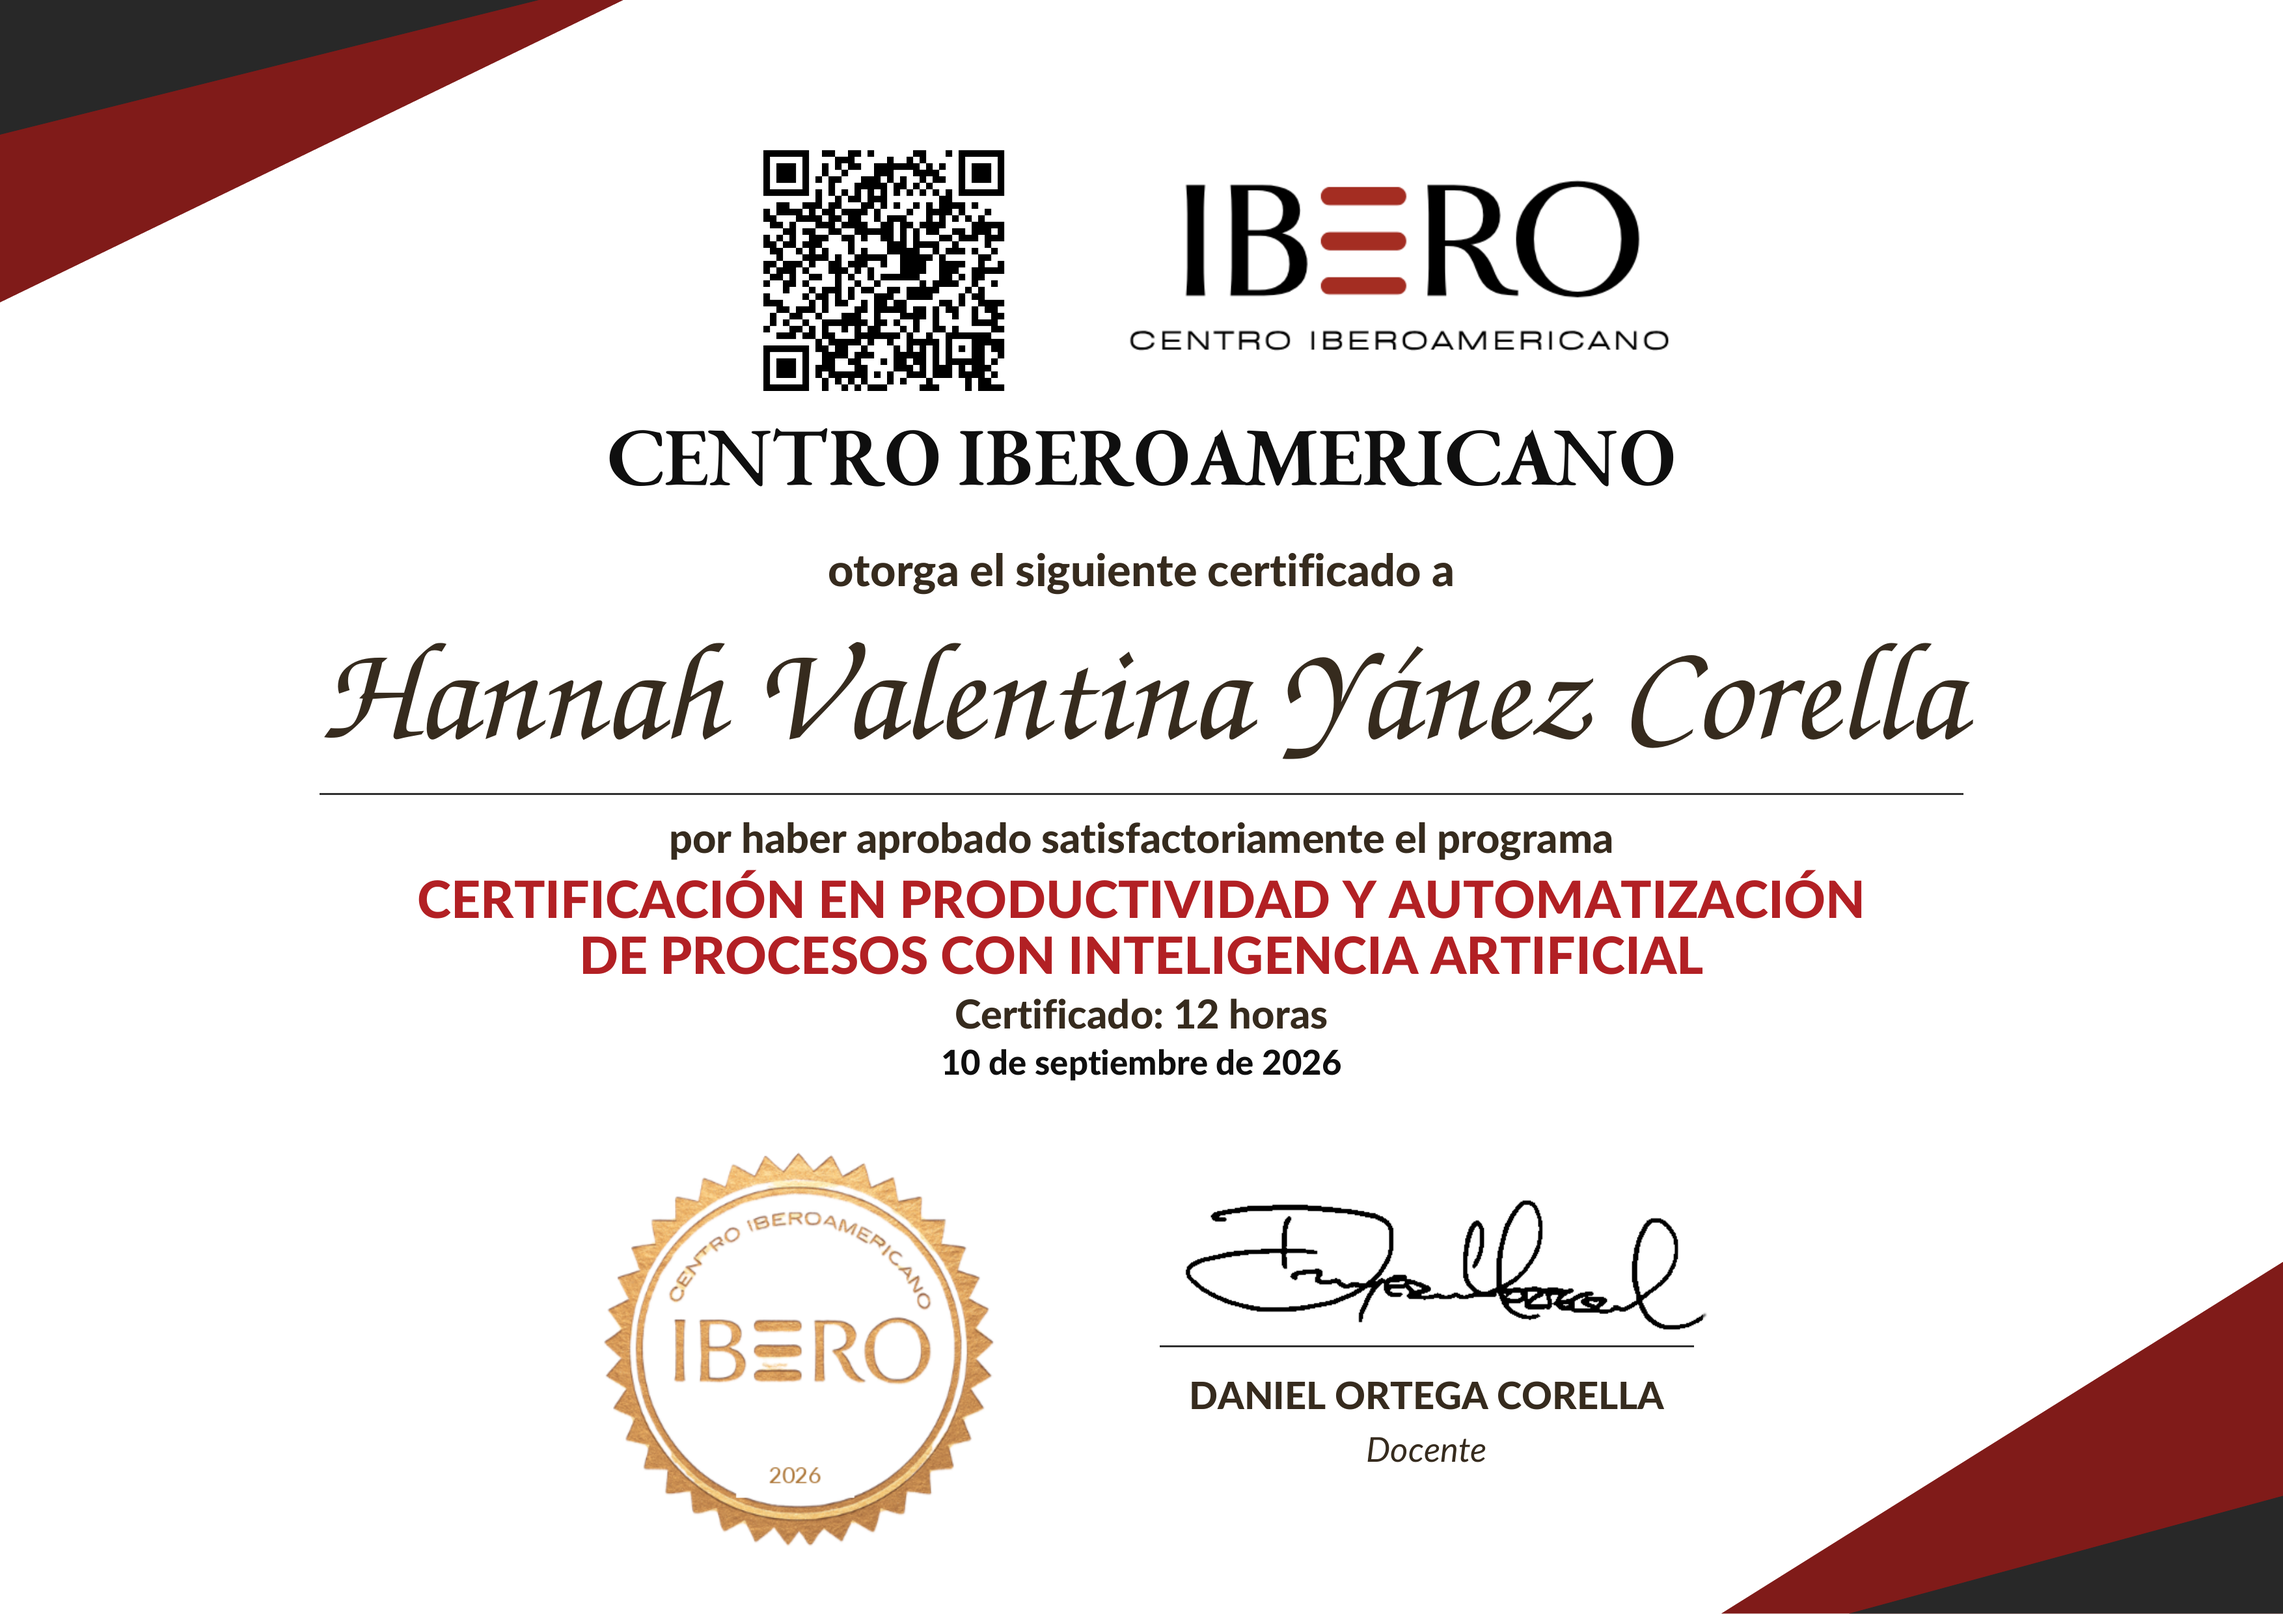
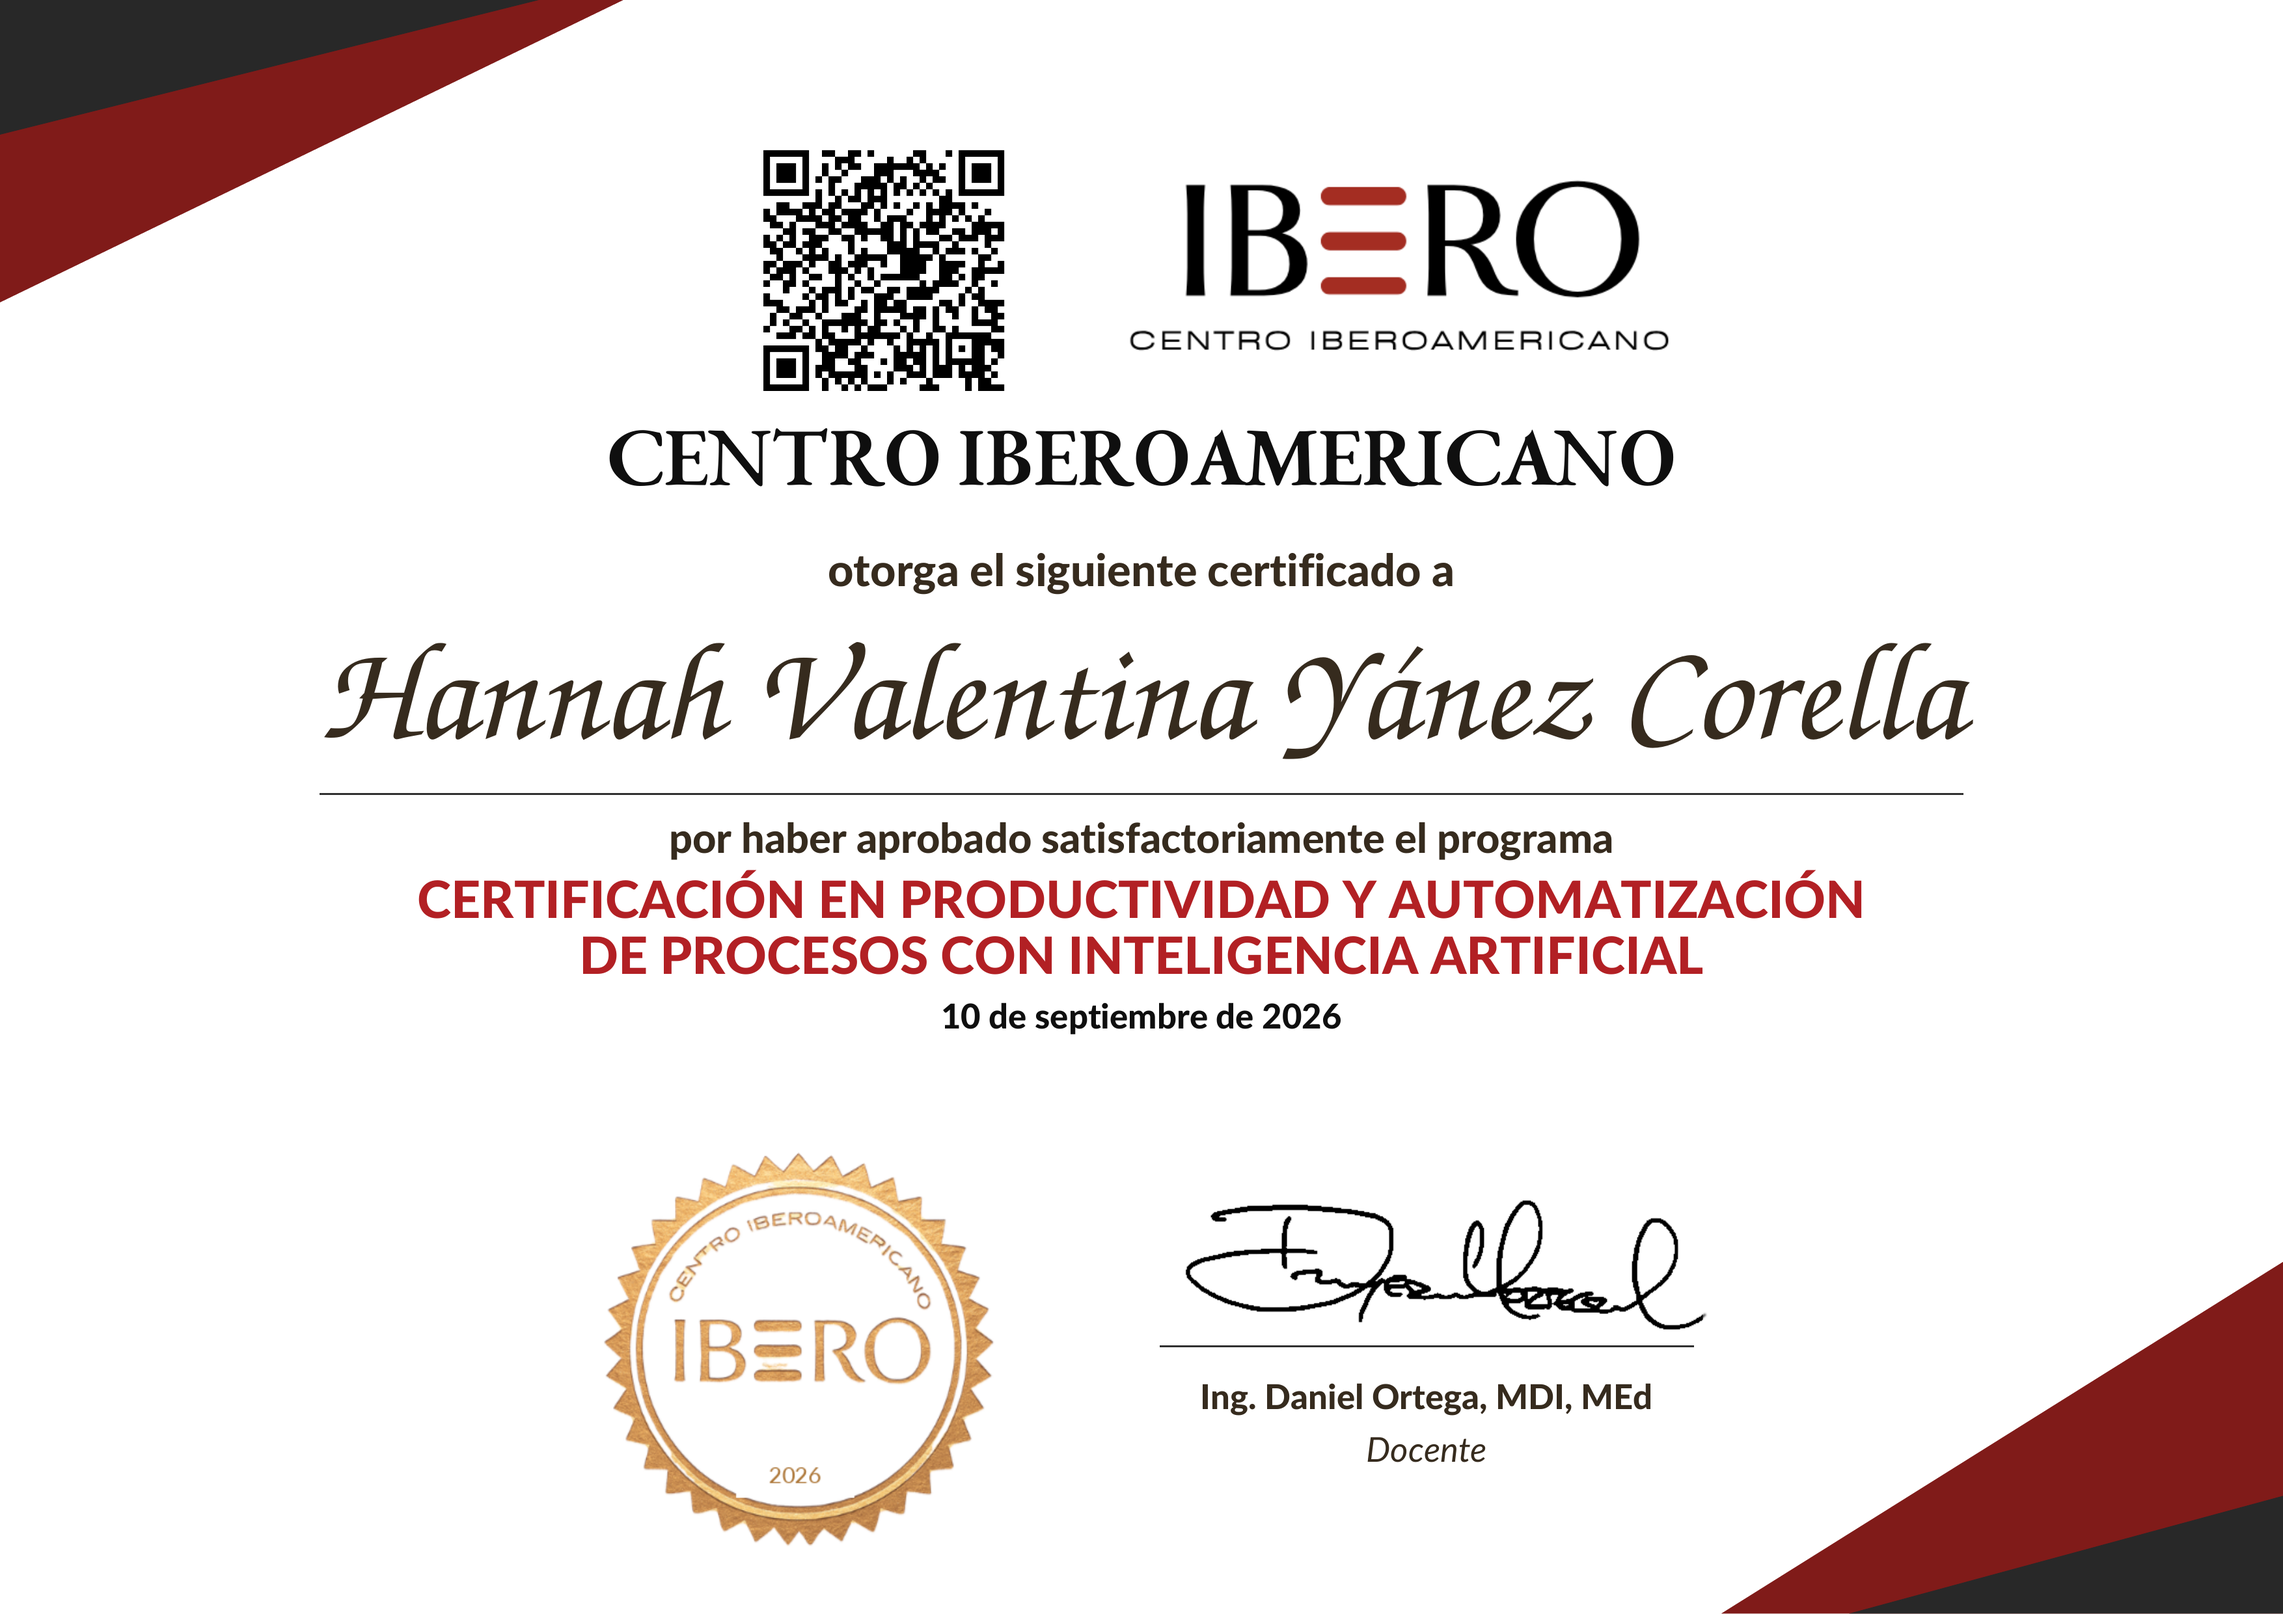
Corregir únicamente el diploma de Hannah y ampliar la búsqueda por nombre sin tildes

Changed region(s): [[0.4039, 0.6207, 0.5904, 0.6828], [0.5282, 0.838, 0.7147, 0.869]]

diff --git a/diplomas/index.html b/diplomas/index.html
@@ -1130,6 +1130,47 @@ Maria Gomez   /fotos/diplomas/maria.jpg   Diplomado..."></textarea>
     const diplomaListContainer = document.getElementById('diploma-list-container');
     let currentDiplomaContext = null;
 
+// BEGIN IBERO_DIPLOMA_SEARCH_CORE
+// Pure search logic embedded verbatim in the candidate HTML (without export).
+function normalizeDiplomaSearchText(value) {
+  return String(value || '').normalize('NFD').replace(/[\u0300-\u036f]/g, '')
+    .toLowerCase().replace(/[^a-z0-9]+/g, ' ').trim();
+}
+
+function matchesDiplomaSearchTokens(name, queryTokens) {
+  const words = normalizeDiplomaSearchText(name).split(' ').filter(Boolean);
+  const tokens = queryTokens.slice().sort((left, right) => right.length - left.length);
+  if (!tokens.length || tokens.length > words.length) return false;
+  const usedWords = new Set();
+  function matchToken(position) {
+    if (position === tokens.length) return true;
+    for (let index = 0; index < words.length; index += 1) {
+      if (usedWords.has(index) || !words[index].startsWith(tokens[position])) continue;
+      usedWords.add(index);
+      if (matchToken(position + 1)) return true;
+      usedWords.delete(index);
+    }
+    return false;
+  }
+  return matchToken(0);
+}
+
+function resolveDiplomaSearch(people, query, exactSlug = '') {
+  const exactPerson = people.find(person => person.slug === exactSlug);
+  if (exactPerson) return { kind: 'person', matches: [exactPerson] };
+  const normalized = normalizeDiplomaSearchText(query);
+  if (!normalized) return { kind: 'none', matches: [] };
+  const tokens = normalized.split(' ');
+  const matches = people.filter(person => (person.names || []).concat(person.slug)
+    .some(name => matchesDiplomaSearchTokens(name, tokens)));
+  return { kind: matches.length === 1 ? 'person' : matches.length ? 'ambiguous' : 'none', matches };
+}
+
+function buildDiplomaValidationHash(slug, diplomaId) {
+  return `#/${encodeURIComponent(slug)}/${encodeURIComponent(diplomaId)}`;
+}
+// END IBERO_DIPLOMA_SEARCH_CORE
+
     function normalizeDiplomaRecords(entry) {
       if (Array.isArray(entry)) {
         return entry.filter(item => item && typeof item === 'object' && !Array.isArray(item));
@@ -1186,7 +1227,8 @@ Maria Gomez   /fotos/diplomas/maria.jpg   Diplomado..."></textarea>
       const rawName = searchInput.value.trim();
       if (!rawName) return;
 
-      const slug = createSlug(rawName);
+      const slug = normalizeDiplomaSearchText(rawName).replace(/ /g, '-');
+      if (!slug) return;
       window.location.hash = '#/' + encodeURIComponent(slug);
     });
 
@@ -1200,7 +1242,8 @@ Maria Gomez   /fotos/diplomas/maria.jpg   Diplomado..."></textarea>
 
       return {
         slug: createSlug(parts[0] || ''),
-        diplomaId: createSlug(parts[1] || '')
+        diplomaId: createSlug(parts[1] || ''),
+        query: parts[0] || ''
       };
     }
 
@@ -1208,7 +1251,7 @@ Maria Gomez   /fotos/diplomas/maria.jpg   Diplomado..."></textarea>
       const route = getRouteFromHash();
 
       if (route.slug) {
-        searchDiploma(route.slug, route.slug.replace(/-/g, ' '), route.diplomaId);
+        searchDiploma(route.slug, route.query.replace(/-/g, ' '), route.diplomaId);
       } else {
         resetSearch(false);
       }
@@ -1239,12 +1282,33 @@ Maria Gomez   /fotos/diplomas/maria.jpg   Diplomado..."></textarea>
         loadingState.classList.add('hidden');
         loadingState.classList.remove('flex');
 
-        const records = getDiplomaRecords(slug);
-        if (!records.length) {
+        const database = window.BASE_DE_DATOS_DIPLOMAS || {};
+        const people = Object.keys(database).filter(personSlug => getDiplomasForSlug(personSlug).length).map(personSlug => ({
+          slug: personSlug,
+          names: getDiplomasForSlug(personSlug).map(record => record.nombre || '')
+        }));
+        const searchResult = resolveDiplomaSearch(people, displayName || slug, slug);
+        if (searchResult.kind === 'none') {
           showError(displayName || slug.replace(/-/g, ' '));
           return;
         }
 
+        if (searchResult.kind === 'ambiguous') {
+          const matchingRecords = searchResult.matches.flatMap(person => {
+            const personRecords = getDiplomaRecords(person.slug);
+            return personRecords.map(record => ({
+              ...record,
+              personSlug: person.slug,
+              personName: record.data.nombre || person.slug.replace(/-/g, ' '),
+              personTotal: personRecords.length
+            }));
+          });
+          showDiplomaList(matchingRecords, '', { name: displayName || slug, people: searchResult.matches.length });
+          return;
+        }
+
+        slug = searchResult.matches[0].slug;
+        const records = getDiplomaRecords(slug);
         if (diplomaId) {
           const selectedRecord = findDiplomaRecord(slug, diplomaId);
           if (selectedRecord) {
@@ -1282,16 +1346,21 @@ Maria Gomez   /fotos/diplomas/maria.jpg   Diplomado..."></textarea>
       return link;
     }
 
-    function showDiplomaList(records, slug) {
+    function showDiplomaList(records, slug, searchContext = null) {
       headerSection.classList.add('hidden');
       currentDiplomaContext = null;
       diplomaListContainer.replaceChildren();
 
-      const studentName = records[0].data.nombre || slug.replace(/-/g, ' ');
+      const studentName = searchContext
+        ? `${searchContext.people} personas coinciden con «${searchContext.name}»`
+        : records[0].data.nombre || slug.replace(/-/g, ' ');
       document.getElementById('list-student-name').textContent = studentName;
-      document.getElementById('list-summary').textContent = `Se encontraron ${records.length} certificados académicos emitidos a nombre de ${studentName}. Selecciona el documento que deseas consultar o validar.`;
+      document.getElementById('list-summary').textContent = searchContext
+        ? `Se encontraron ${records.length} certificados. Revisa el nombre completo y selecciona la credencial de la persona que buscas.`
+        : `Se encontraron ${records.length} certificados académicos emitidos a nombre de ${studentName}. Selecciona el documento que deseas consultar o validar.`;
 
       records.forEach((record, position) => {
+        const recordSlug = record.personSlug || slug;
         const card = document.createElement('article');
         card.className = 'credential-list-card';
         card.setAttribute('role', 'listitem');
@@ -1305,7 +1374,7 @@ Maria Gomez   /fotos/diplomas/maria.jpg   Diplomado..."></textarea>
 
         const label = document.createElement('p');
         label.className = 'credential-list-label';
-        label.textContent = `Credencial ${position + 1} de ${records.length}`;
+        label.textContent = searchContext ? record.personName : `Credencial ${position + 1} de ${records.length}`;
 
         const course = document.createElement('h4');
         course.className = 'credential-list-course';
@@ -1313,7 +1382,9 @@ Maria Gomez   /fotos/diplomas/maria.jpg   Diplomado..."></textarea>
 
         const identifier = document.createElement('p');
         identifier.className = 'credential-list-id';
-        identifier.textContent = `ID: ${slug.toUpperCase()}-C${String(position + 1).padStart(2, '0')}`;
+        identifier.textContent = searchContext
+          ? `ID: ${recordSlug.toUpperCase()}${record.personTotal > 1 ? `-C${String(record.index + 1).padStart(2, '0')}` : ''}`
+          : `ID: ${slug.toUpperCase()}-C${String(position + 1).padStart(2, '0')}`;
 
         copy.append(label, course, identifier);
 
@@ -1325,21 +1396,21 @@ Maria Gomez   /fotos/diplomas/maria.jpg   Diplomado..."></textarea>
           'fa-regular fa-eye',
           'credential-action-view',
           record.data.url,
-          { target: '_blank', ariaLabel: `Ver diploma: ${record.data.curso || studentName}` }
+          { target: '_blank', ariaLabel: `Ver diploma: ${searchContext ? record.personName + ' · ' : ''}${record.data.curso || studentName}` }
         );
         const downloadLink = createCredentialAction(
           'Descargar',
           'fa-solid fa-download',
           'credential-action-download',
           record.data.url,
-          { download: true, ariaLabel: `Descargar diploma: ${record.data.curso || studentName}` }
+          { download: true, ariaLabel: `Descargar diploma: ${searchContext ? record.personName + ' · ' : ''}${record.data.curso || studentName}` }
         );
         const validationLink = createCredentialAction(
           'Validar',
           'fa-solid fa-shield-halved',
           'credential-action-validate',
-          `#/${encodeURIComponent(slug)}/${encodeURIComponent(record.id)}`,
-          { ariaLabel: `Validar credencial: ${record.data.curso || studentName}` }
+          buildDiplomaValidationHash(recordSlug, record.id),
+          { ariaLabel: `Validar credencial: ${searchContext ? record.personName + ' · ' : ''}${record.data.curso || studentName}` }
         );
 
         actions.append(viewLink, downloadLink, validationLink);
@@ -2028,3 +2099,4 @@ document.addEventListener('DOMContentLoaded', function () {
 </script>
 </body>
 </html>
+

diff --git a/diplomas/data.js b/diplomas/data.js
@@ -351,6 +351,6 @@ window.BASE_DE_DATOS_DIPLOMAS = {
     "id": "certificado-productividad-automatizacion-ia-12h-hannah-valentina-yanez-corella",
     "nombre": "Hannah Valentina Yánez Corella",
     "url": "/fotos/diplomas/certificado-productividad-automatizacion-ia-12h-hannah-valentina-yanez-corella.png",
-    "curso": "Certificación en Productividad y Automatización de Procesos con Inteligencia Artificial · Certificado 12 horas · 10 de septiembre de 2026"
+    "curso": "Certificación en Productividad y Automatización de Procesos con Inteligencia Artificial · 10 de septiembre de 2026"
   }
 };
